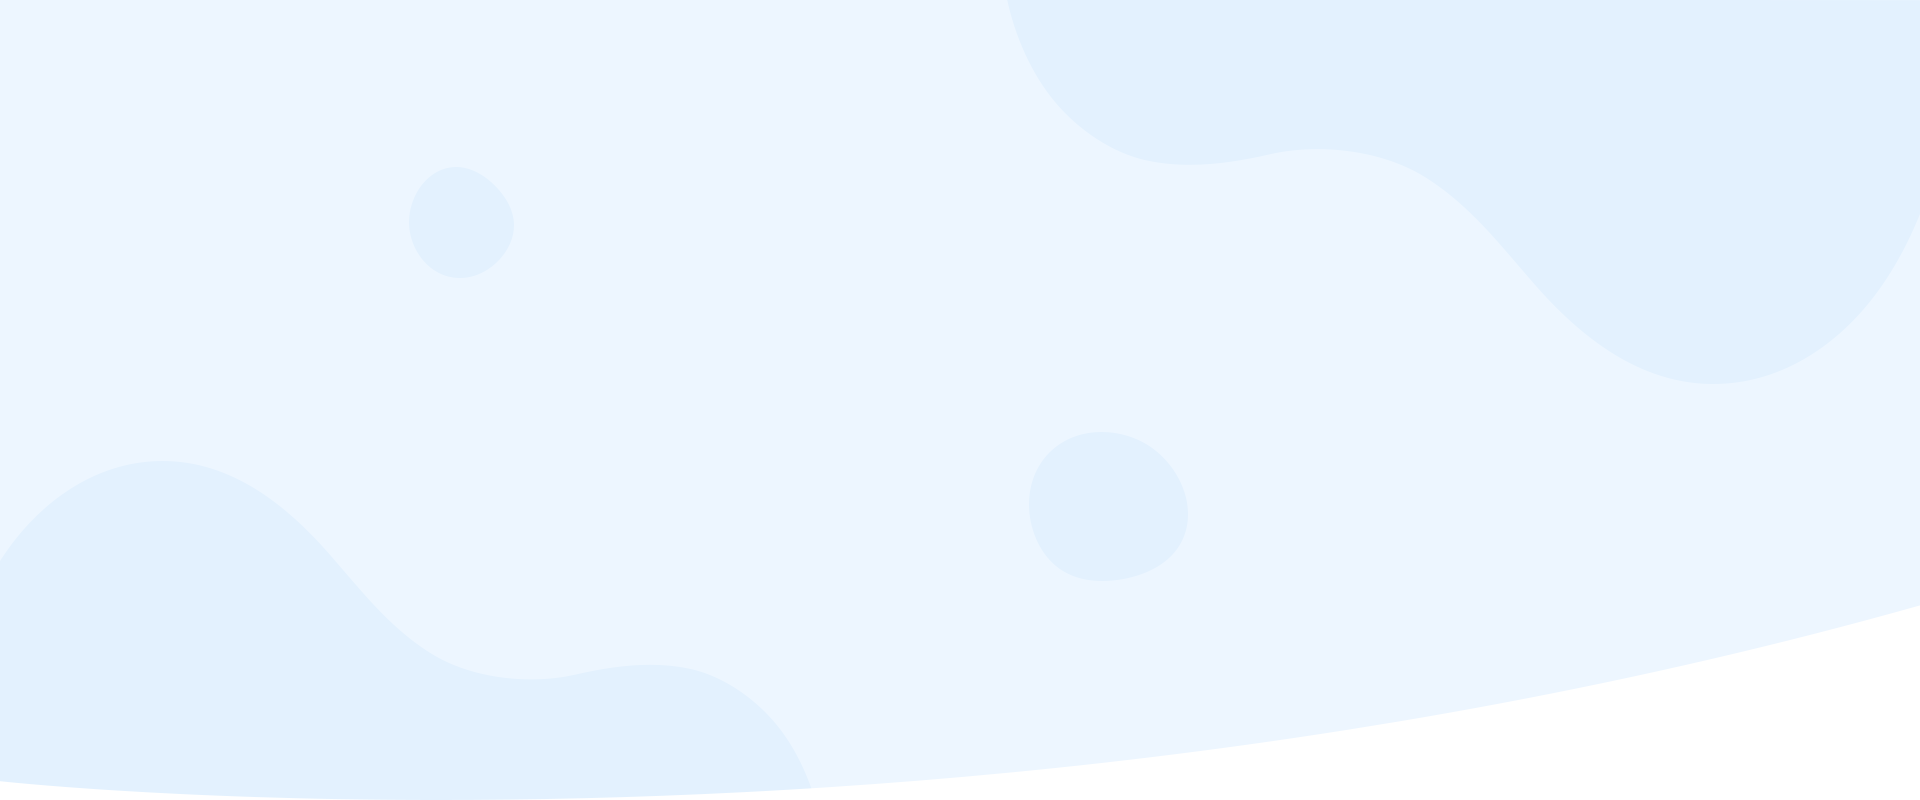
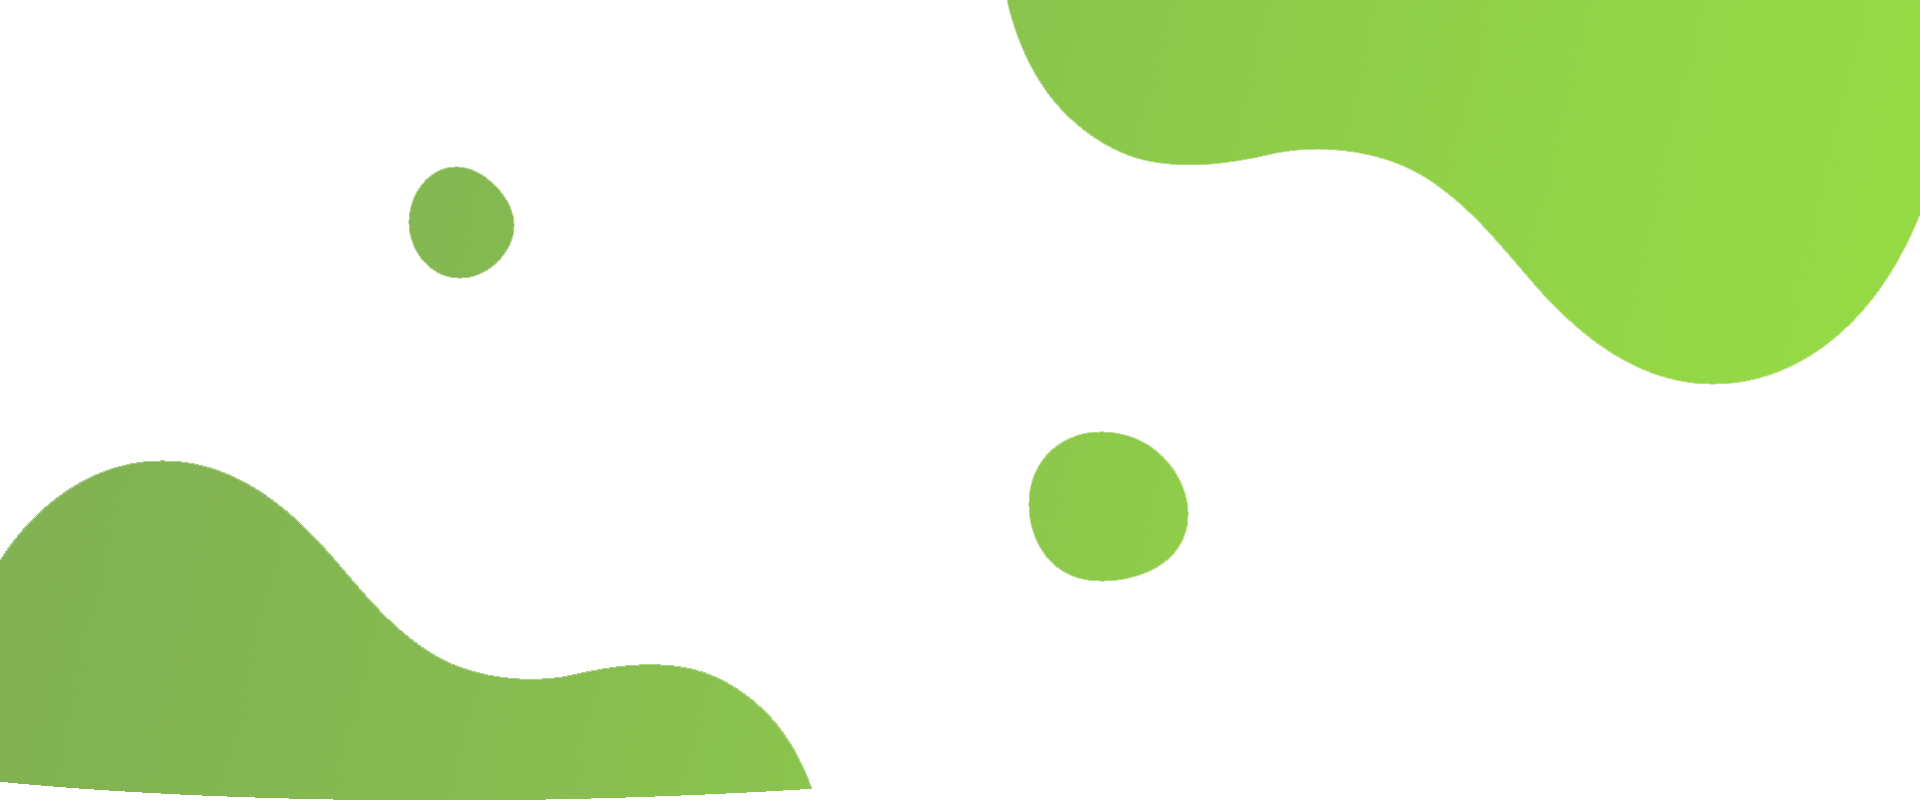
a

diff --git a/index.html b/index.html
@@ -142,13 +142,12 @@ layout: default
         <div class="container">
             <div class="row justify-content-center section-title-wrap">
                 <div class="col-lg-12">
-                    <div class="title-img"><img alt="" src="/img/youtube.png" /></div>
                     <h1>We glow with Our Statistics</h1>
                     <p>The first is a non technical method which requires the use of adware removal software. Download free adware and spyware removal software and use advanced tools getting infected.</p>
                 </div>
             </div>
             <div class="row align-items-center">
-                <div class="col-lg-4 col-md-12 text-centerpr-3 pr-md-5"><img class="img-fluid" alt="" src="/img/stat/stat-img.png" /></div>
+                <div class="col-lg-4 col-md-12 text-centerpr-3 pr-md-5"><img class="img-fluid" alt="" src="img/youtube.png" /></div>
                 <div class="col-lg-8 col-md-12">
                     <div class="row">
                         <div class="col-lg-6 col-md-6">
@@ -214,126 +213,35 @@ layout: default
         <div class="container-fluid">
             <div class="row justify-content-center section-title-wrap">
                 <div class="col-lg-12">
-                    <div class="title-img"><img alt="" src="/img/title-icon.png" /></div>
                     <h1>Features that make us Stand Out</h1>
                     <p>The first is a non technical method which requires the use of adware removal software. Download free adware and spyware removal software and use advanced tools getting infected.</p>
                 </div>
             </div>
             <div class="row align-items-center">
                 <div class="col-lg-6 pr-5">
-                    <div class="active-execution-carusel owl-carousel owl-theme owl-loaded">
-                        <div class="owl-stage-outer">
-                            <div class="owl-stage" style="transform: translate3d(-1052px, 0px, 0px); transition: all 0s ease 0s; width: 3156px;">
-                                <div class="owl-item cloned" style="width: 496px; margin-right: 30px;">
-                                    <div class="owl-stage-outer">
-                                        <div class="owl-stage" style="transform: translate3d(-1052px, 0px, 0px); transition: all 0s ease 0s; width: 3682px;">
-                                            <div class="owl-item cloned" style="width: 496px; margin-right: 30px;"><img class="img-fluid" alt="" src="/img/carusel/c2.png" /></div>
-                                            <div class="owl-item cloned" style="width: 496px; margin-right: 30px;"><img class="img-fluid" alt="" src="/img/carusel/c3.png" /></div>
-                                            <div class="owl-item active" style="width: 496px; margin-right: 30px;"><img class="img-fluid" alt="" src="/img/carusel/c1.png" /></div>
-                                            <div class="owl-item" style="width: 496px; margin-right: 30px;"><img class="img-fluid" alt="" src="/img/carusel/c2.png" /></div>
-                                            <div class="owl-item" style="width: 496px; margin-right: 30px;"><img class="img-fluid" alt="" src="/img/carusel/c3.png" /></div>
-                                            <div class="owl-item cloned" style="width: 496px; margin-right: 30px;"><img class="img-fluid" alt="" src="/img/carusel/c1.png" /></div>
-                                            <div class="owl-item cloned" style="width: 496px; margin-right: 30px;"><img class="img-fluid" alt="" src="/img/carusel/c2.png" /></div>
-                                        </div>
-                                    </div>
-                                </div>
-                                <div class="owl-item cloned" style="width: 496px; margin-right: 30px;">
-                                    <div class="owl-controls">
-                                        <div class="owl-nav">
-                                            <div class="owl-prev" style="display: none;">prev</div>
-                                            <div class="owl-next" style="display: none;">next</div>
-                                        </div>
-                                        <div class="owl-dots">
-                                            <div class="owl-dot active"><span></span></div>
-                                            <div class="owl-dot"><span></span></div>
-                                            <div class="owl-dot"><span></span></div>
-                                        </div>
-                                    </div>
-                                </div>
-                                <div class="owl-item active" style="width: 496px; margin-right: 30px;">
-                                    <div class="owl-stage-outer">
-                                        <div class="owl-stage" style="transform: translate3d(-1052px, 0px, 0px); transition: all 0s ease 0s; width: 3682px;">
-                                            <div class="owl-item cloned" style="width: 496px; margin-right: 30px;"><img class="img-fluid" alt="" src="/img/carusel/c2.png" /></div>
-                                            <div class="owl-item cloned" style="width: 496px; margin-right: 30px;"><img class="img-fluid" alt="" src="/img/carusel/c3.png" /></div>
-                                            <div class="owl-item active" style="width: 496px; margin-right: 30px;"><img class="img-fluid" alt="" src="/img/carusel/c1.png" /></div>
-                                            <div class="owl-item" style="width: 496px; margin-right: 30px;"><img class="img-fluid" alt="" src="/img/carusel/c2.png" /></div>
-                                            <div class="owl-item" style="width: 496px; margin-right: 30px;"><img class="img-fluid" alt="" src="/img/carusel/c3.png" /></div>
-                                            <div class="owl-item cloned" style="width: 496px; margin-right: 30px;"><img class="img-fluid" alt="" src="/img/carusel/c1.png" /></div>
-                                            <div class="owl-item cloned" style="width: 496px; margin-right: 30px;"><img class="img-fluid" alt="" src="/img/carusel/c2.png" /></div>
-                                        </div>
-                                    </div>
-                                </div>
-                                <div class="owl-item" style="width: 496px; margin-right: 30px;">
-                                    <div class="owl-controls">
-                                        <div class="owl-nav">
-                                            <div class="owl-prev" style="display: none;">prev</div>
-                                            <div class="owl-next" style="display: none;">next</div>
-                                        </div>
-                                        <div class="owl-dots">
-                                            <div class="owl-dot active"><span></span></div>
-                                            <div class="owl-dot"><span></span></div>
-                                            <div class="owl-dot"><span></span></div>
-                                        </div>
-                                    </div>
-                                </div>
-                                <div class="owl-item cloned" style="width: 496px; margin-right: 30px;">
-                                    <div class="owl-stage-outer">
-                                        <div class="owl-stage" style="transform: translate3d(-1052px, 0px, 0px); transition: all 0s ease 0s; width: 3682px;">
-                                            <div class="owl-item cloned" style="width: 496px; margin-right: 30px;"><img class="img-fluid" alt="" src="/img/carusel/c2.png" /></div>
-                                            <div class="owl-item cloned" style="width: 496px; margin-right: 30px;"><img class="img-fluid" alt="" src="/img/carusel/c3.png" /></div>
-                                            <div class="owl-item active" style="width: 496px; margin-right: 30px;"><img class="img-fluid" alt="" src="/img/carusel/c1.png" /></div>
-                                            <div class="owl-item" style="width: 496px; margin-right: 30px;"><img class="img-fluid" alt="" src="/img/carusel/c2.png" /></div>
-                                            <div class="owl-item" style="width: 496px; margin-right: 30px;"><img class="img-fluid" alt="" src="/img/carusel/c3.png" /></div>
-                                            <div class="owl-item cloned" style="width: 496px; margin-right: 30px;"><img class="img-fluid" alt="" src="/img/carusel/c1.png" /></div>
-                                            <div class="owl-item cloned" style="width: 496px; margin-right: 30px;"><img class="img-fluid" alt="" src="/img/carusel/c2.png" /></div>
-                                        </div>
-                                    </div>
-                                </div>
-                                <div class="owl-item cloned" style="width: 496px; margin-right: 30px;">
-                                    <div class="owl-controls">
-                                        <div class="owl-nav">
-                                            <div class="owl-prev" style="display: none;">prev</div>
-                                            <div class="owl-next" style="display: none;">next</div>
-                                        </div>
-                                        <div class="owl-dots">
-                                            <div class="owl-dot active"><span></span></div>
-                                            <div class="owl-dot"><span></span></div>
-                                            <div class="owl-dot"><span></span></div>
-                                        </div>
-                                    </div>
-                                </div>
-                            </div>
-                        </div>
-                        <div class="owl-controls">
-                            <div class="owl-nav">
-                                <div class="owl-prev" style="display: none;">prev</div>
-                                <div class="owl-next" style="display: none;">next</div>
-                            </div>
-                            <div class="owl-dots">
-                                <div class="owl-dot active"><span></span></div>
-                                <div class="owl-dot"><span></span></div>
-                            </div>
-                        </div>
-                    </div>
-                </div>
+    <img class="img-fluid" alt="" src="img/unique_feature.png" /></div>
+
+
+
                 <div class="col-lg-6 pl-4">
                     <div class="feature-list d-flex flex-row">
                         <div class="icon"><img class="img-fluid" alt="" src="http://127.0.0.1:4000/img/feature/f1.png" /></div>
-                        <div class="desc ml-40"><a class="cc-active" href=""> </a>
-                            <h4 class="mb-20">&nbsp;</h4><a class="cc-active" href=""> </a>
+                        <div class="desc ml-40">
+                            <h4 class="mb-20">asdf asdf asdf </h4>
                             <p>&nbsp;</p>
                         </div>
                     </div>
                     <div class="feature-list d-flex flex-row">
                         <div class="icon"><img class="img-fluid" alt="" src="http://127.0.0.1:4000/img/feature/f2.png" /></div>
-                        <div class="desc ml-40"><a class="cc-active" href=""> </a>
-                            <h4 class="mb-20">&nbsp;</h4><a class="cc-active" href=""> </a>
+                        <div class="desc ml-40">
+                            <h4 class="mb-20">asdf asdf asdf </h4>
                             <p>&nbsp;</p>
                         </div>
                     </div>
                 </div>
             </div>
         </div>
+
     </section>
     <!-- End unique-feature Area -->
 

diff --git a/_sass/theme/_variables.scss b/_sass/theme/_variables.scss
@@ -5,11 +5,11 @@ $primary-font	: 'Montserrat', sans-serif;
 
 // --------------------------- Color variations ----------------------
 
-$primary-color	: #7b10ff;
-$primary-color2	: #974fff;
+$primary-color	: #65b133;
+$primary-color2	: #65b133;
 $title-color	: #1e283c;
 $text-color		: #50668f;
-$aquablue-color : #edf6ff;
+$aquablue-color : #65b133;
 
 $white			: #fff;
 $offwhite		: #f2f5fa;

diff --git a/css/bootstrap.css b/css/bootstrap.css
@@ -195,14 +195,14 @@ sup {
 }
 
 a {
-  color: #007bff;
+  color: #65b133;
   text-decoration: none;
   background-color: transparent;
   -webkit-text-decoration-skip: objects;
 }
 
 a:hover {
-  color: #0056b3;
+  color: #65b133;
   text-decoration: underline;
 }
 

diff --git a/_sass/theme/_elements.scss b/_sass/theme/_elements.scss
@@ -41,7 +41,6 @@
         position: relative;
         padding-bottom: 15px;
         &:before {
-            content: '';
             position: absolute;
             left: 50%;
             bottom: 0px;
